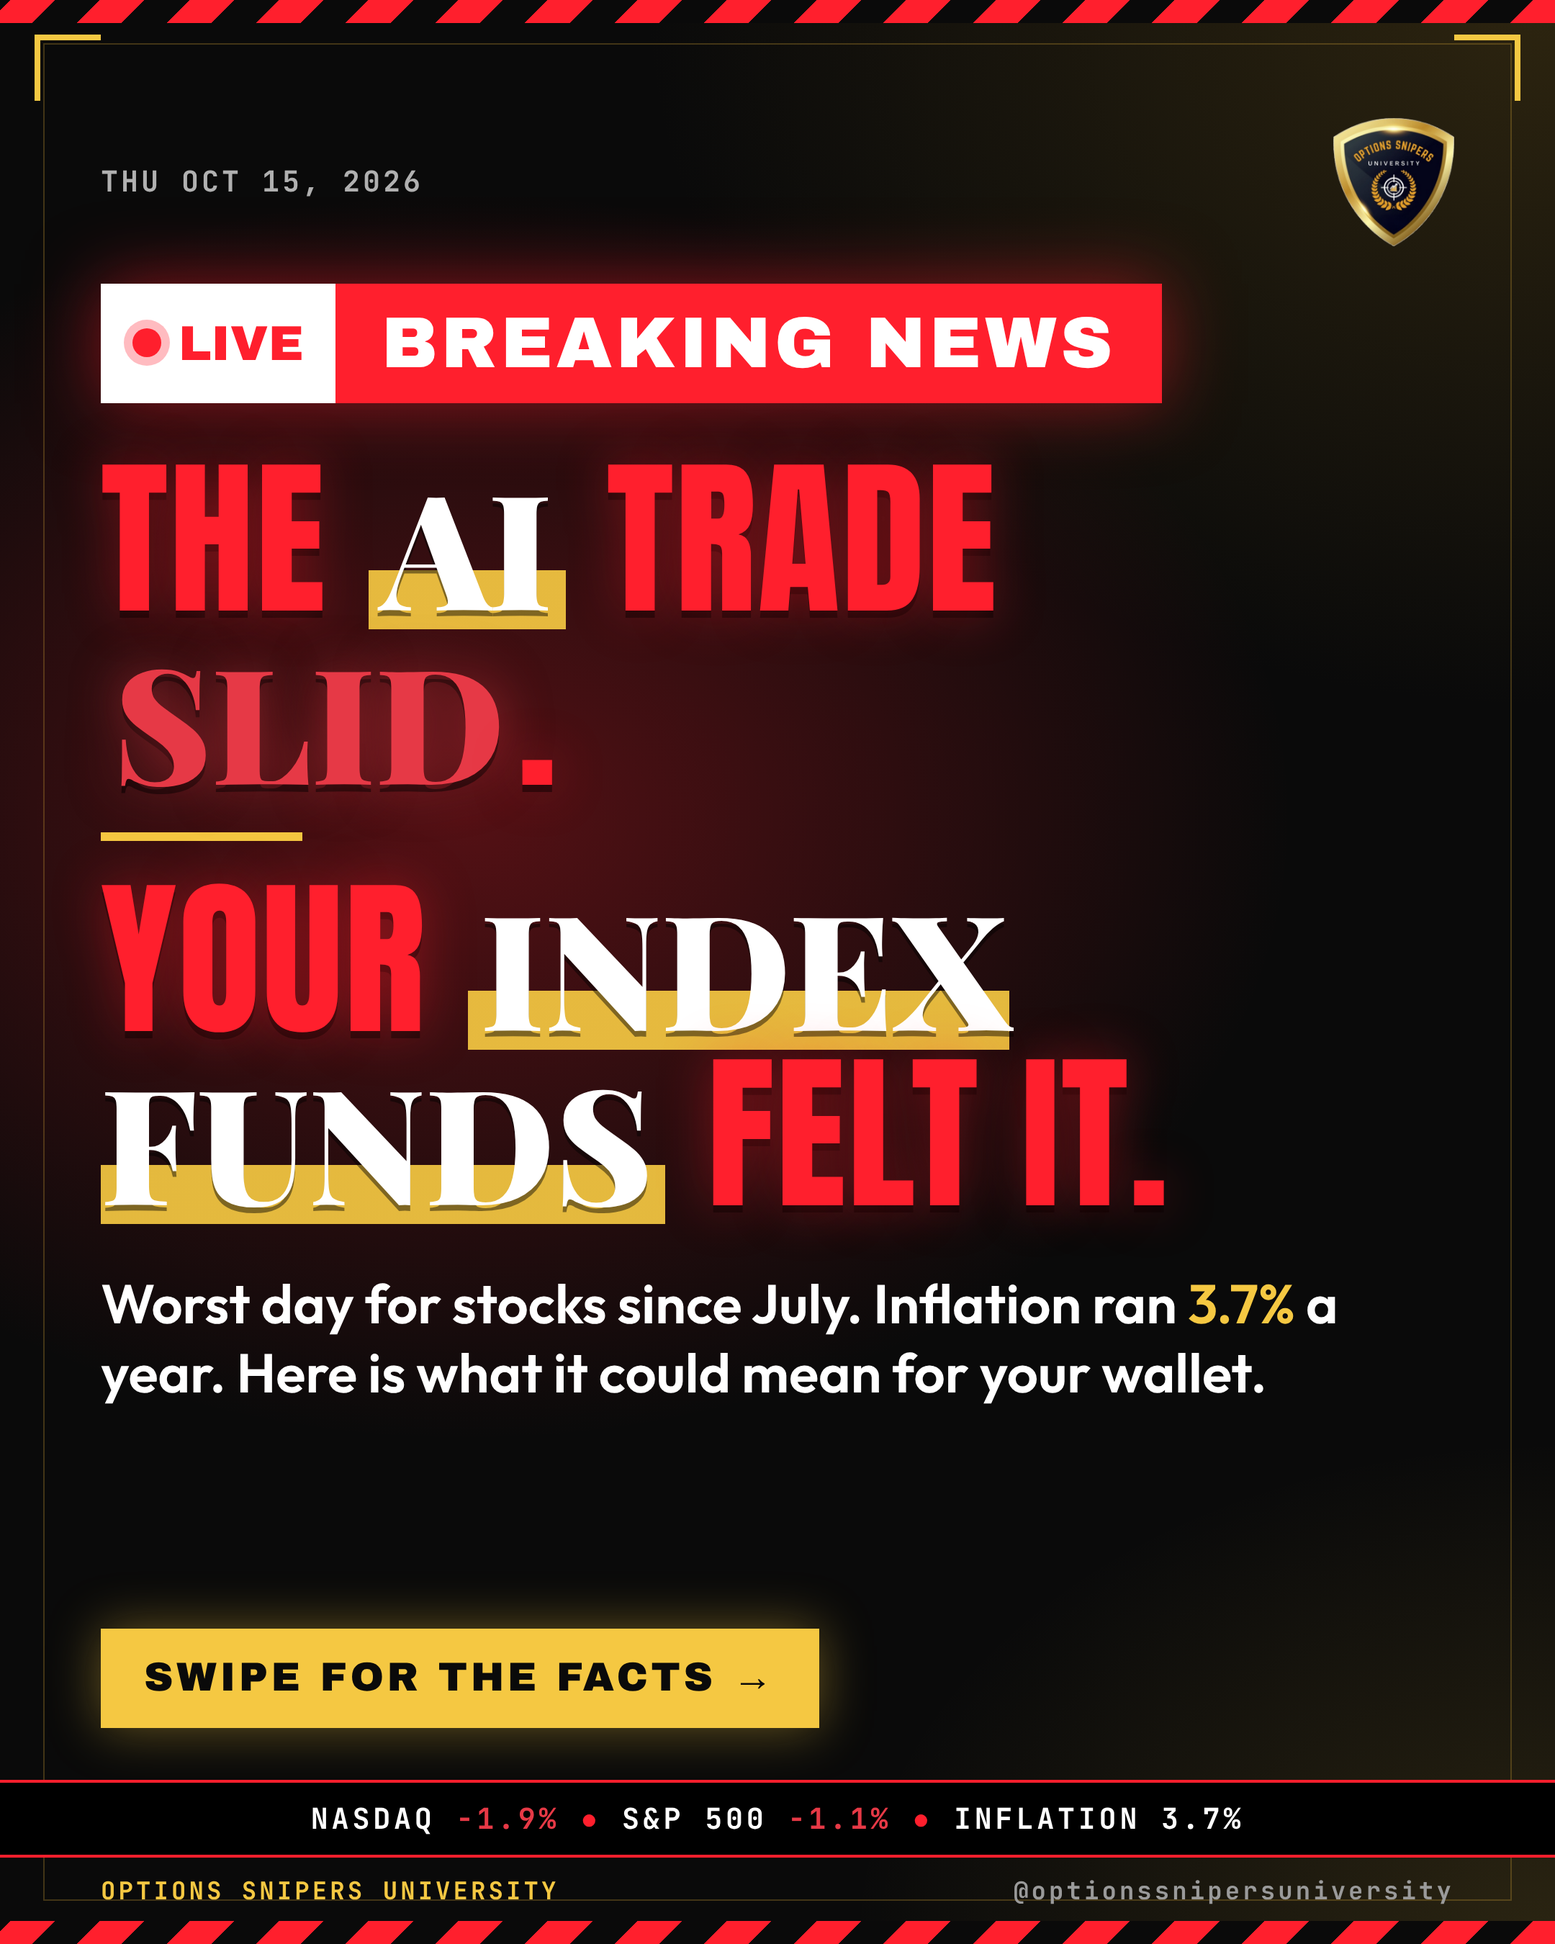
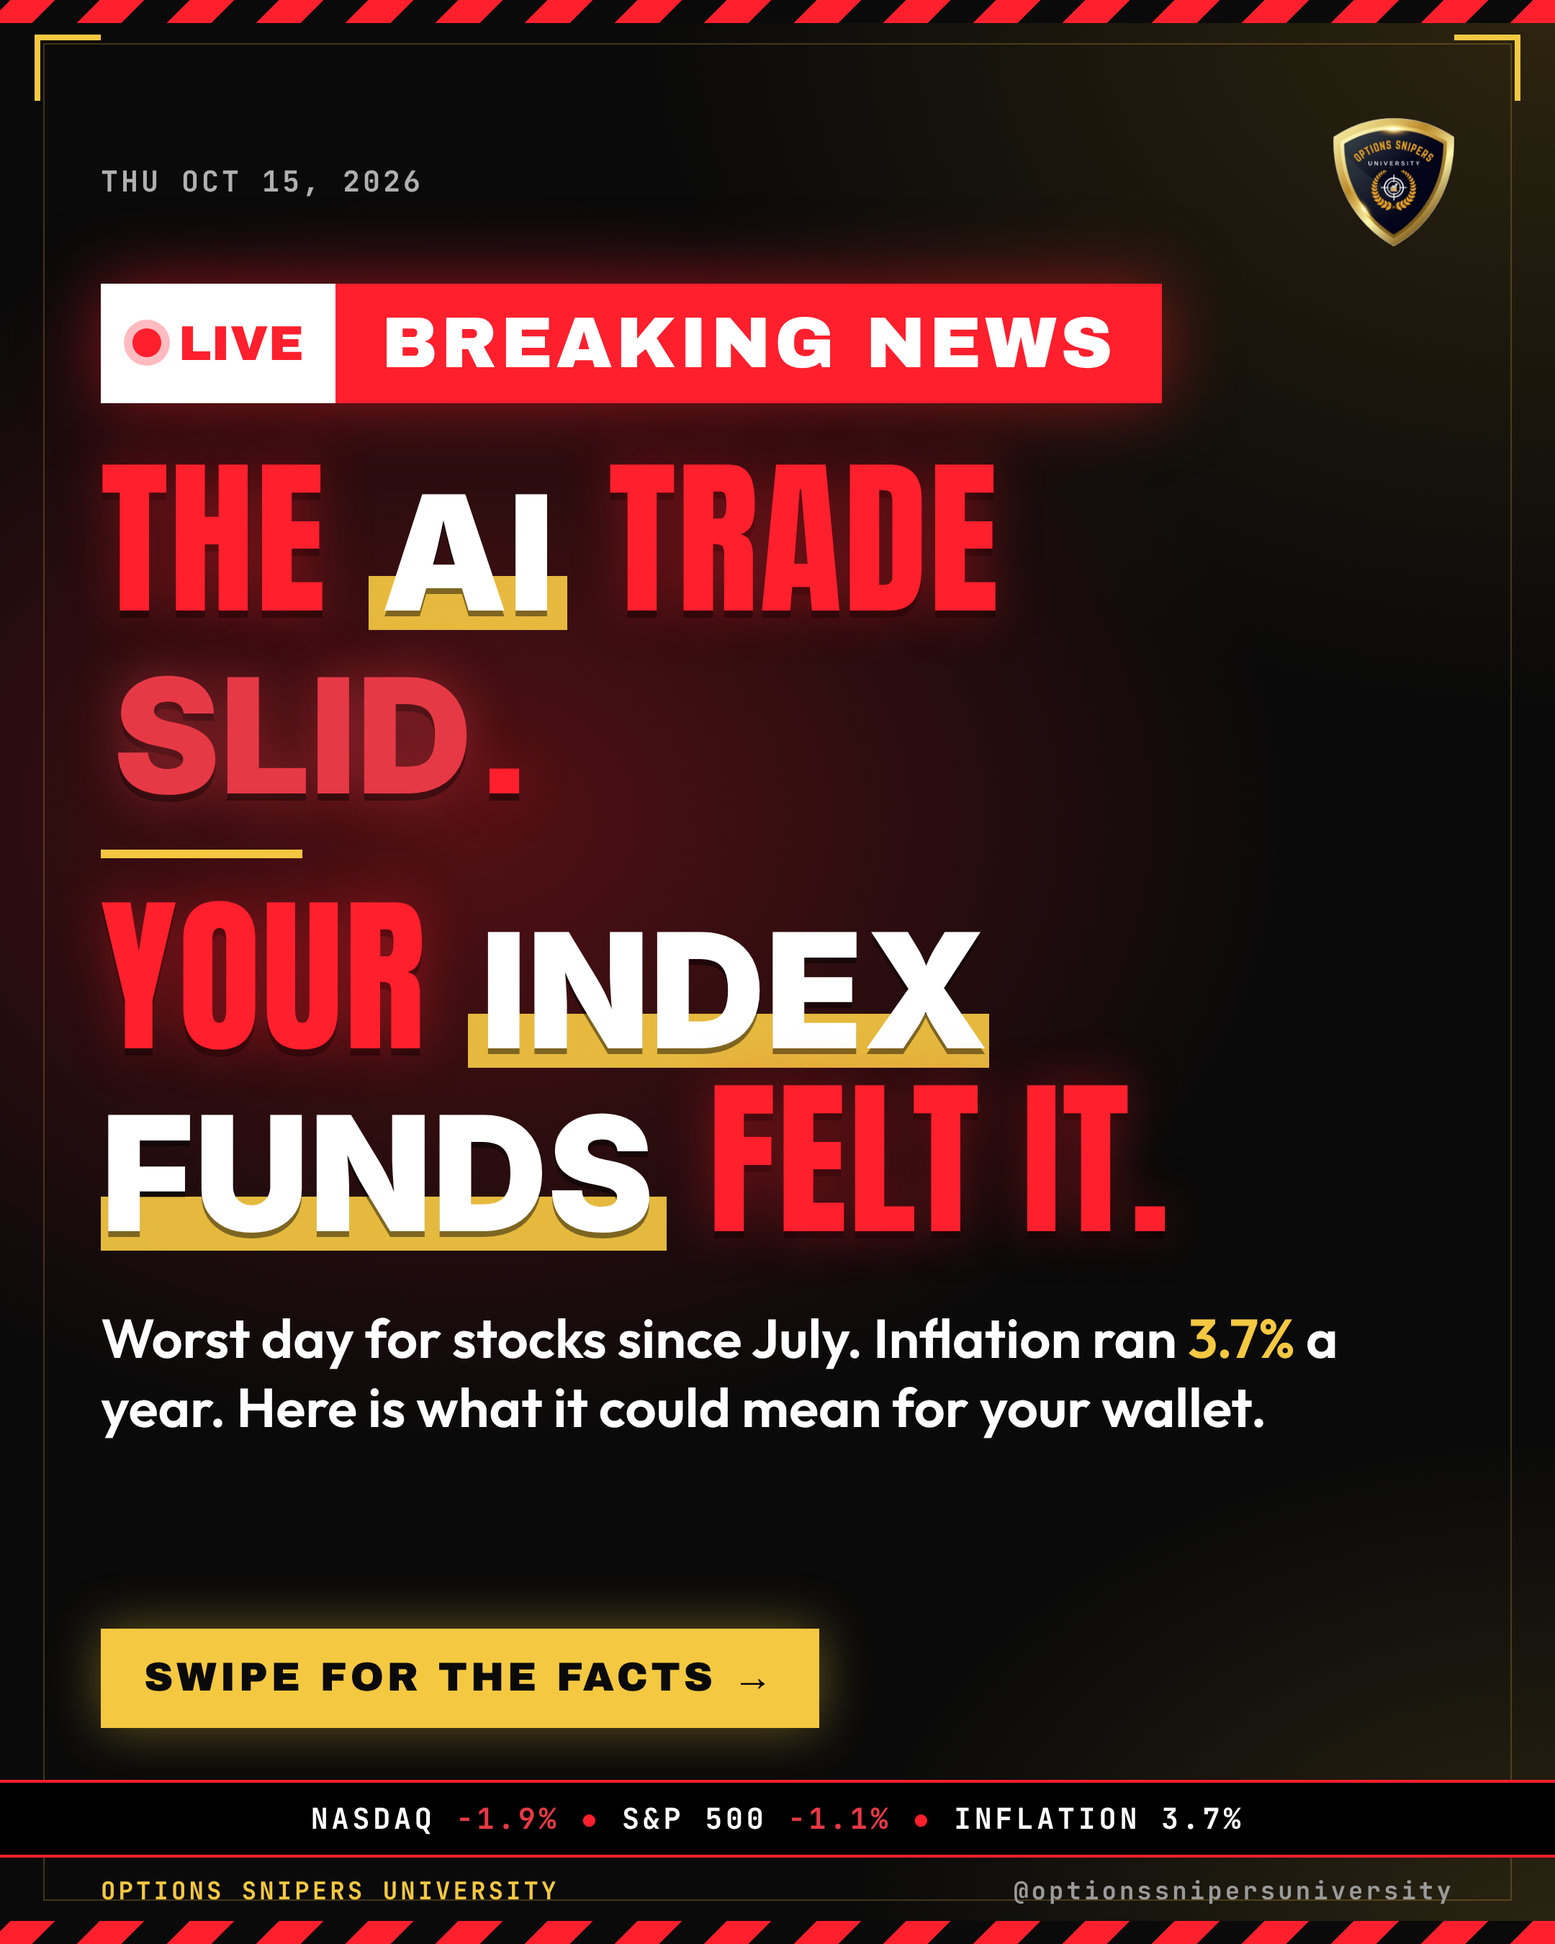
Swap Playfair Display for Inter 900 on news slides; update news-kit templates
Claude-Session: https://claude.ai/code/session_01Lj6nZK7pst8kEvSZERv8E5

Changed region(s): [[0.062, 0.4667, 0.8685, 0.7467], [0.062, 0.2489, 0.3722, 0.4978], [0.4343, 0.2489, 0.6204, 0.3111]]

diff --git a/news-kit/cover.html b/news-kit/cover.html
@@ -2,8 +2,7 @@
 <style>
 @font-face{font-family:'Archivo Black';src:url(fonts/archivo-black-latin-400-normal.woff2)}
 @font-face{font-family:'Anton';src:url(fonts/anton-latin-400-normal.woff2)}
-@font-face{font-family:'Playfair Display';font-weight:900;font-style:normal;src:url(fonts/playfair-display-latin-900-normal.woff2)}
-@font-face{font-family:'Playfair Display';font-weight:900;font-style:italic;src:url(fonts/playfair-display-latin-900-italic.woff2)}
+@font-face{font-family:'Inter';font-weight:900;src:url(fonts/inter-latin-900-normal.woff2)}
 @font-face{font-family:'Outfit';font-weight:600;src:url(fonts/outfit-latin-600-normal.woff2)}
 @font-face{font-family:'JetBrains Mono';font-weight:700;src:url(fonts/jetbrains-mono-latin-700-normal.woff2)}
 :root{--bg:#07070a;--gold:#F5C842;--red:#FF1F2D}
@@ -32,7 +31,7 @@ body{position:relative;color:#fff}
 .hl{position:absolute;left:70px;right:70px;top:640px;z-index:6}
 .s{font-family:'Anton';font-size:96px;line-height:1.02;color:#fff;text-transform:uppercase;letter-spacing:1px;text-shadow:0 6px 0 rgba(0,0,0,.55),0 0 40px rgba(0,0,0,.6)}
 .s.r{color:var(--red);text-shadow:0 0 36px rgba(255,31,45,.5),0 6px 0 rgba(0,0,0,.55)}
-.s em{font-family:'Playfair Display';font-style:normal;font-weight:900;color:#fff;text-transform:uppercase;letter-spacing:0;font-size:.94em;padding:0 .08em;background:linear-gradient(transparent 62%,rgba(245,200,66,.92) 62% 90%,transparent 90%);text-shadow:0 4px 0 rgba(0,0,0,.45)}
+.s em{font-family:'Inter';font-style:normal;font-weight:900;color:#fff;text-transform:uppercase;letter-spacing:0;font-size:.94em;padding:0 .08em;background:linear-gradient(transparent 62%,rgba(245,200,66,.92) 62% 90%,transparent 90%);text-shadow:0 4px 0 rgba(0,0,0,.45)}
 .s em.g{color:#14D9A0;background:none;text-shadow:0 0 34px rgba(20,217,160,.55),0 5px 0 rgba(0,0,0,.6)}
 .s em.rd{color:#E63946;background:none;text-shadow:0 0 34px rgba(230,57,70,.5),0 5px 0 rgba(0,0,0,.6)}
 .sub{position:absolute;left:70px;right:70px;top:1040px;font-family:'Outfit';font-weight:600;font-size:37px;line-height:1.25;color:#fff;z-index:6;text-shadow:0 2px 14px rgba(0,0,0,.8)}
@@ -57,11 +56,11 @@ body{position:relative;color:#fff}
    lines: 2 SENTENCES, ALL CAPS, each on its own line. *asterisks* = bold white serif + gold highlight; +plus+ = bold green serif (positive numbers/words); ~tildes~ = bold red serif (negative). Prefix a line with ! to make it red.
    sub: one line, key number in <b>. Everything must be true to the sources. */
 const C={
- date:"WED OCT 14, 2026",
- chip:"GOLDMAN SACHS  |  NYSE: GS",
- logo:"<svg role=\"img\" viewBox=\"0 0 24 24\" xmlns=\"http://www.w3.org/2000/svg\"><path d=\"M1.963 9.264h1.452v2.378c-.484.098-.855.148-1.262.148C.561 11.79 0 10.878 0 9.377c0-1.614.778-2.526 2.329-2.526.196 0 .567.014 1.03.084v1.522h-.336l-.19-.582c-.183-.553-.4-.827-.744-.827-.596 0-.912.806-.912 2.315 0 1.515.126 2.23.904 2.23.106 0 .231-.014.351-.048V9.776l-.469-.323v-.189Zm1.424 6.382c0 .954-.651 1.501-1.802 1.501-.315 0-.778-.048-1.213-.119v-1.865h.337l.14.441c.315 1.017.54 1.353.94 1.353.421 0 .722-.371.722-.862 0-.399-.189-.68-.595-.898l-.702-.378c-.541-.287-.835-.736-.835-1.283 0-.828.68-1.326 1.796-1.326.252 0 .547.022 1.016.085v1.521h-.337l-.188-.581c-.19-.618-.393-.842-.764-.842-.415 0-.66.266-.66.652 0 .343.19.589.561.799l.708.399c.596.337.876.786.876 1.403Zm3.101 1.102.14.211v.106H5.556l-.05-.407c-.112.308-.407.491-.786.491-.561 0-.912-.351-.912-.926 0-.561.315-.933 1.283-1.311l.414-.161v-.525c0-.463-.085-.652-.344-.652-.21 0-.329.112-.533.623l-.231.573h-.315v-1.144c.414-.126.828-.21 1.185-.21.792 0 1.221.378 1.221 1.066v2.266Zm.405-6.824c0 1.192-.637 1.866-1.459 1.866-.82 0-1.457-.674-1.457-1.866 0-1.193.637-1.866 1.459-1.866.82 0 1.457.673 1.457 1.866Zm-1.387 6.235v-1.213l-.133.056c-.414.169-.569.547-.569 1.101 0 .414.099.652.329.652.231 0 .373-.225.373-.596Zm.357-6.235c0-1.347-.112-1.704-.427-1.704s-.428.357-.428 1.704c0 1.346.113 1.704.428 1.704s.427-.358.427-1.704Zm3.521 6.269.126.064c-.224.646-.511.89-1.066.89-.904 0-1.409-.679-1.409-1.865 0-1.185.589-1.866 1.55-1.866.258 0 .603.042.897.16v1.193h-.329l-.132-.449c-.176-.596-.273-.75-.449-.75-.281 0-.505.365-.505 1.754 0 1.114.168 1.521.595 1.521.287.001.532-.181.722-.652Zm-.779-4.488H7.342v-.104l.141-.211V7.476l-.141-.21V7.16l1.123-.084v4.313l.14.211v.105Zm1.726.085c-.772 0-1.235-.702-1.235-1.901 0-1.192.483-1.83 1.227-1.83.379 0 .589.147.68.441V7.476l-.141-.21V7.16l1.123-.084v4.313l.14.211v.104h-.996l-.077-.533c-.111.457-.321.619-.721.619Zm2.461 4.958.14.211v.106H11.67v-.106l.14-.211v-2.525c0-.301-.091-.483-.309-.483-.26 0-.449.218-.449.645v2.363l.141.211v.106H9.93v-.106l.14-.211v-3.914l-.14-.21v-.105l1.122-.084v1.451c.127-.301.414-.469.82-.469.576 0 .919.365.919 1.073v2.258h.001Zm-2.664-6.846c0 1.263.112 1.648.421 1.648.385 0 .455-.554.455-1.662 0-1.073-.077-1.606-.449-1.606-.315 0-.427.379-.427 1.62Zm7.041 1.487.14.211v.104h-1.262V11.6l.14-.211V8.787c0-.252-.084-.407-.281-.407-.244 0-.441.219-.441.638v2.371l.14.211v.104h-1.262V11.6l.14-.211V8.787c0-.252-.084-.407-.28-.407-.245 0-.442.219-.442.638v2.371l.141.211v.104h-1.263V11.6l.14-.211V8.535l-.14-.169v-.104l1.01-.12h.084l.028.393c.119-.309.414-.477.814-.477.427 0 .708.21.834.589.105-.365.435-.589.856-.589.553 0 .904.365.904 1.072v2.259Zm-1.311 4.644c0 .609-.393 1.114-1.339 1.114-.245 0-.575-.028-1.087-.119v-1.304h.287l.091.281c.224.715.441.982.785.982.323 0 .533-.232.533-.59 0-.294-.147-.497-.497-.687l-.603-.323c-.385-.21-.596-.539-.596-.946 0-.638.499-1.024 1.325-1.024.239 0 .547.034.884.105v1.024h-.287l-.148-.373c-.168-.449-.329-.595-.595-.595-.287 0-.456.168-.456.449 0 .238.141.399.484.595l.595.337c.406.232.624.561.624 1.074Zm4.538-4.644.14.211v.104h-1.073l-.048-.407c-.112.309-.407.491-.786.491-.561 0-.911-.35-.911-.926 0-.561.315-.932 1.283-1.311l.413-.16v-.526c0-.463-.084-.652-.343-.652-.211 0-.329.113-.533.624l-.231.575h-.317V8.27c.415-.127.828-.211 1.185-.211.792 0 1.221.379 1.221 1.066v2.264Zm-.982-.589V9.587l-.133.056c-.413.168-.567.547-.567 1.101 0 .414.098.653.329.653.23 0 .371-.225.371-.597Zm4.586.8v.104h-1.263V11.6l.141-.211V8.864c0-.302-.091-.484-.309-.484-.26 0-.449.219-.449.646v2.363l.14.211v.104h-1.262V11.6l.14-.211V8.535l-.14-.169v-.104l1.01-.12h.084l.028.393c.119-.309.407-.477.82-.477.575 0 .918.365.918 1.072v2.259L24 11.6Z\"/></svg>",
- lines:["GOLDMAN JUST MADE +$5.3 BILLION+.","!IN *3 MONTHS*."],
- sub:"Profit up <b>29%</b>. Here is what Wall Street's big week could mean for your money."
+ date:"THU OCT 15, 2026",
+ chip:"NVIDIA  |  NASDAQ: NVDA",
+ logo:"<svg role=\"img\" viewBox=\"0 0 24 24\" xmlns=\"http://www.w3.org/2000/svg\"><path d=\"M8.948 8.798v-1.43a6.7 6.7 0 0 1 .424-.018c3.922-.124 6.493 3.374 6.493 3.374s-2.774 3.851-5.75 3.851c-.398 0-.787-.062-1.158-.185v-4.346c1.528.185 1.837.857 2.747 2.385l2.04-1.714s-1.492-1.952-4-1.952a6.016 6.016 0 0 0-.796.035m0-4.735v2.138l.424-.027c5.45-.185 9.01 4.47 9.01 4.47s-4.08 4.964-8.33 4.964c-.37 0-.733-.035-1.095-.097v1.325c.3.035.61.062.91.062 3.957 0 6.82-2.023 9.593-4.408.459.371 2.34 1.263 2.73 1.652-2.633 2.208-8.772 3.984-12.253 3.984-.335 0-.653-.018-.971-.053v1.864H24V4.063zm0 10.326v1.131c-3.657-.654-4.673-4.46-4.673-4.46s1.758-1.944 4.673-2.262v1.237H8.94c-1.528-.186-2.73 1.245-2.73 1.245s.68 2.412 2.739 3.11M2.456 10.9s2.164-3.197 6.5-3.533V6.201C4.153 6.59 0 10.653 0 10.653s2.35 6.802 8.948 7.42v-1.237c-4.84-.6-6.492-5.936-6.492-5.936z\"/></svg>",
+ lines:["AI STOCKS *CRACKED*.", "NASDAQ ~-1.9%~ IN A DAY."],
+ sub:"S&P 500 <b style=\"color:#E63946\">-1.1%</b>, its worst day since July, as a hot inflation report hit tech. Here is what it could mean for your money."
 };
 date.textContent=C.date;chip.textContent=C.chip;badge.innerHTML=C.logo;
 hl.innerHTML=C.lines.map(l=>{const r=l[0]==='!';if(r)l=l.slice(1);return '<div class="s'+(r?' r':'')+'">'+l.replace(/\*(.+?)\*/g,'<em>$1</em>').replace(/\+(.+?)\+/g,'<em class="g">$1</em>').replace(/~(.+?)~/g,'<em class="rd">$1</em>')+'</div>'}).join('');

diff --git a/news-kit/news.html b/news-kit/news.html
@@ -1,6 +1,6 @@
 <!DOCTYPE html><html><head><meta charset="utf-8"><title>News</title>
 <style>
-@font-face{font-family:'Playfair Display';font-weight:900;font-style:normal;src:url(fonts/playfair-display-latin-900-normal.woff2)}
+@font-face{font-family:'Inter';font-weight:900;src:url(fonts/inter-latin-900-normal.woff2)}
 @font-face{font-family:'Archivo Black';src:url(fonts/archivo-black-latin-400-normal.woff2)}
 @font-face{font-family:'Outfit';font-weight:400;src:url(fonts/outfit-latin-400-normal.woff2)}
 @font-face{font-family:'Outfit';font-weight:600;src:url(fonts/outfit-latin-600-normal.woff2)}
@@ -19,8 +19,8 @@ body{position:relative;padding:92px 76px 0;color:#fff;
 .date{font-family:'JetBrains Mono';font-size:20px;color:#9a9a9a;letter-spacing:.1em}
 h1{font-family:'Archivo Black';font-weight:400;font-size:80px;line-height:1.02;margin-top:24px;letter-spacing:-1px}
 h1 span{color:var(--gold)}
-h1 span.g{color:#14D9A0;font-family:'Playfair Display';font-weight:900;text-shadow:0 0 30px rgba(20,217,160,.35)}
-h1 span.rd{color:#E63946;font-family:'Playfair Display';font-weight:900}
+h1 span.g{color:#14D9A0;font-family:'Inter';font-weight:900;text-shadow:0 0 30px rgba(20,217,160,.35)}
+h1 span.rd{color:#E63946;font-family:'Inter';font-weight:900}
 .sub{font-family:'Outfit';font-size:32px;line-height:1.25;color:#d8d8d8;margin-top:18px}
 .row{display:grid;grid-template-columns:repeat(3,1fr);gap:20px;margin-top:28px}
 .tile{background:var(--card);border:2px solid var(--line);padding:22px 10px 18px;text-align:center;border-top:5px solid var(--red)}
@@ -46,17 +46,17 @@ h1 span.rd{color:#E63946;font-family:'Playfair Display';font-weight:900}
 <div class="row" id="row"></div>
 <div class="what" id="what"></div>
 <div class="box"><h3 id="bh"></h3><ul id="bl"></ul></div>
-<div class="disc">Educational content only. Not financial advice. Earnings reported Tue Oct 13, 2026.</div>
+<div class="disc">Educational content only. Not financial advice. Market moves as of the Wed Oct 14, 2026 close.</div>
 <div class="foot"><b>OPTIONS SNIPERS UNIVERSITY</b><span>@optionssnipersuniversity</span></div>
 <script>
 const N={
- kick:"NEWS THAT HITS YOUR WALLET", date:"WED OCT 14, 2026",
- h:'GOLDMAN JUST MADE <span class="g">$5.3 BILLION</span> IN 3 MONTHS',
- sub:"Big bank earnings show how money is moving. Here is what it means for you.",
- tiles:[["PROFIT","GS","+29%"],["REVENUE","GS","+23%"],["EQUITIES","GS","+72%"]],
- what:"<b>What happened:</b> Goldman Sachs reported Q3 earnings of $17.01 a share on $18.68 billion in revenue, well above estimates. Stock trading led the jump. Inflation (CPI) data lands today at 8:30 AM ET.",
+ kick:"NEWS THAT HITS YOUR WALLET", date:"THU OCT 15, 2026",
+ h:'NASDAQ <span class="rd">-1.9%</span> IN ONE DAY AS INFLATION HIT TECH',
+ sub:"Worst day for stocks since July. Here is what it means for you.",
+ tiles:[["NASDAQ","COMPOSITE","-1.9%"],["S&P 500","INDEX","-1.1%"],["NVIDIA","NVDA | OVER 3%","-3%+"]],
+ what:"<b>What happened:</b> On Wed Oct 14, the S&P 500 fell 1.1% and the Nasdaq 1.9%, their worst days since July, as chip and AI shares sold off. September inflation (CPI) hit 3.7% a year, above the 3.6% economists expected.",
  bh:"WHAT IT MEANS FOR YOU",
- bl:["<b>Your portfolio:</b> big banks sit inside most index funds. One strong report can move more than one account.","<b>Your wallet:</b> a hot CPI reading could revive rate-hike talk, which can lift loan and card rates. Nothing changes today.","<b>Your edge:</b> an earnings gap is not a signal alone. Watch volume and the first 30 minutes."]
+ bl:["<b>Your portfolio:</b> chip giants like Nvidia sit inside most index funds, so one rough day can show up in many accounts.","<b>Your wallet:</b> hotter inflation could keep rates higher for longer, which may keep loan and card costs up. Nothing changes today.","<b>Your edge:</b> after a calm stretch, one big red day is a reminder to size for volatility, not just direction."]
 };
 kick.textContent=N.kick;date.textContent=N.date;h.innerHTML=N.h;sub.textContent=N.sub;what.innerHTML=N.what;bh.textContent=N.bh;
 row.innerHTML=N.tiles.map(t=>{const neg=String(t[2]).trim().startsWith('-');return `<div class="tile ${neg?'neg':'pos'}"><div class="n ${neg?'neg':''}">${t[2]}</div><div class="t">${t[0]}</div><div class="s">${t[1]}</div></div>`}).join('');

diff --git a/news-kit/title.html b/news-kit/title.html
@@ -2,8 +2,7 @@
 <style>
 @font-face{font-family:'Archivo Black';src:url(fonts/archivo-black-latin-400-normal.woff2)}
 @font-face{font-family:'Anton';src:url(fonts/anton-latin-400-normal.woff2)}
-@font-face{font-family:'Playfair Display';font-weight:900;font-style:normal;src:url(fonts/playfair-display-latin-900-normal.woff2)}
-@font-face{font-family:'Playfair Display';font-weight:900;font-style:italic;src:url(fonts/playfair-display-latin-900-italic.woff2)}
+@font-face{font-family:'Inter';font-weight:900;src:url(fonts/inter-latin-900-normal.woff2)}
 @font-face{font-family:'Outfit';font-weight:600;src:url(fonts/outfit-latin-600-normal.woff2)}
 @font-face{font-family:'JetBrains Mono';font-weight:700;src:url(fonts/jetbrains-mono-latin-700-normal.woff2)}
 :root{--bg:#0A0A0A;--gold:#F5C842;--red:#FF1F2D}
@@ -26,7 +25,7 @@ body{position:relative;padding:64px 70px 0;color:#fff;
 .brk .t{background:var(--red);font-family:'Archivo Black';font-size:50px;letter-spacing:.05em;padding:14px 32px;line-height:1.1}
 .hl{margin-top:34px;position:relative}
 .s{font-family:'Anton';font-size:118px;line-height:1.02;color:var(--red);text-transform:uppercase;letter-spacing:1px;text-shadow:0 0 36px rgba(255,31,45,.4),0 5px 0 rgba(0,0,0,.5)}
-.s em{font-family:'Playfair Display';font-style:normal;font-weight:900;color:#fff;text-transform:uppercase;letter-spacing:0;font-size:.94em;padding:0 .08em;background:linear-gradient(transparent 62%,rgba(245,200,66,.92) 62% 90%,transparent 90%);text-shadow:0 4px 0 rgba(0,0,0,.45)}
+.s em{font-family:'Inter';font-style:normal;font-weight:900;color:#fff;text-transform:uppercase;letter-spacing:0;font-size:.94em;padding:0 .08em;background:linear-gradient(transparent 62%,rgba(245,200,66,.92) 62% 90%,transparent 90%);text-shadow:0 4px 0 rgba(0,0,0,.45)}
 .s em.g{color:#14D9A0;background:none;text-shadow:0 0 34px rgba(20,217,160,.55),0 5px 0 rgba(0,0,0,.6)}
 .s em.rd{color:#E63946;background:none;text-shadow:0 0 34px rgba(230,57,70,.5),0 5px 0 rgba(0,0,0,.6)}
 .sep{height:6px;width:140px;background:var(--gold);margin:22px 0 22px}
@@ -52,10 +51,10 @@ body{position:relative;padding:64px 70px 0;color:#fff;
    lines: 2 SENTENCES (each starts on its own line), ALL CAPS, about 3-6 words each. Wrap the 1-2 most important words of each sentence in *asterisks* (bold white serif with gold highlight); use +plus+ for positive words/numbers (green) and ~tildes~ for negative (red). In ticker/sub, +N% shows green and -N% red.
    ticker: 2-3 short verified facts separated by " | ". sub: one line, wrap the key number in <b>. Everything must be true to the sources. */
 const T={
- date:"WED OCT 14, 2026",
- lines:["GOLDMAN +BEAT+ BY A MILE.","TODAY'S *CPI* IS THE TEST."],
- ticker:"GS PROFIT +29% | EQUITIES TRADING +72% | CPI AT 8:30 AM ET",
- sub:"Inflation data lands at <b>8:30 AM ET</b>. Here is what it could mean for your money."
+ date:"THU OCT 15, 2026",
+ lines:["THE *AI* TRADE ~SLID~.", "YOUR *INDEX FUNDS* FELT IT."],
+ ticker:"NASDAQ -1.9% | S&P 500 -1.1% | INFLATION 3.7%",
+ sub:"Worst day for stocks since July. Inflation ran <b>3.7%</b> a year. Here is what it could mean for your wallet."
 };
 date.textContent=T.date;
 hl.innerHTML=T.lines.map(l=>'<div class="s">'+l.replace(/\*(.+?)\*/g,'<em>$1</em>').replace(/\+(.+?)\+/g,'<em class="g">$1</em>').replace(/~(.+?)~/g,'<em class="rd">$1</em>')+'</div>').join('<div class="sep"></div>');
